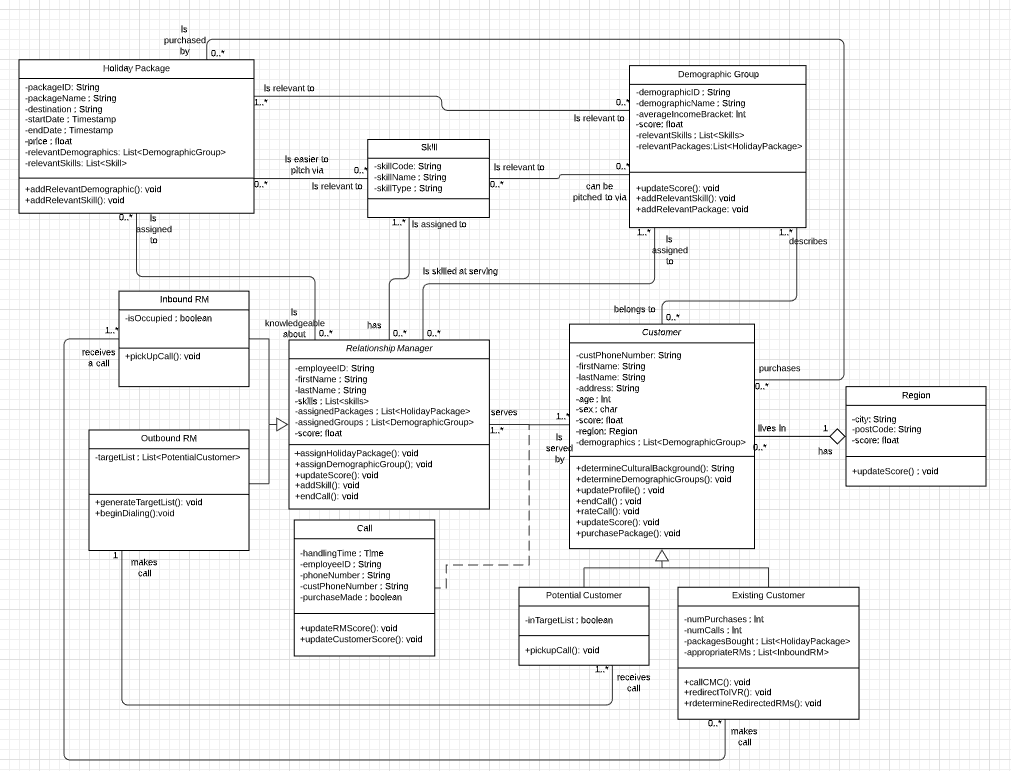
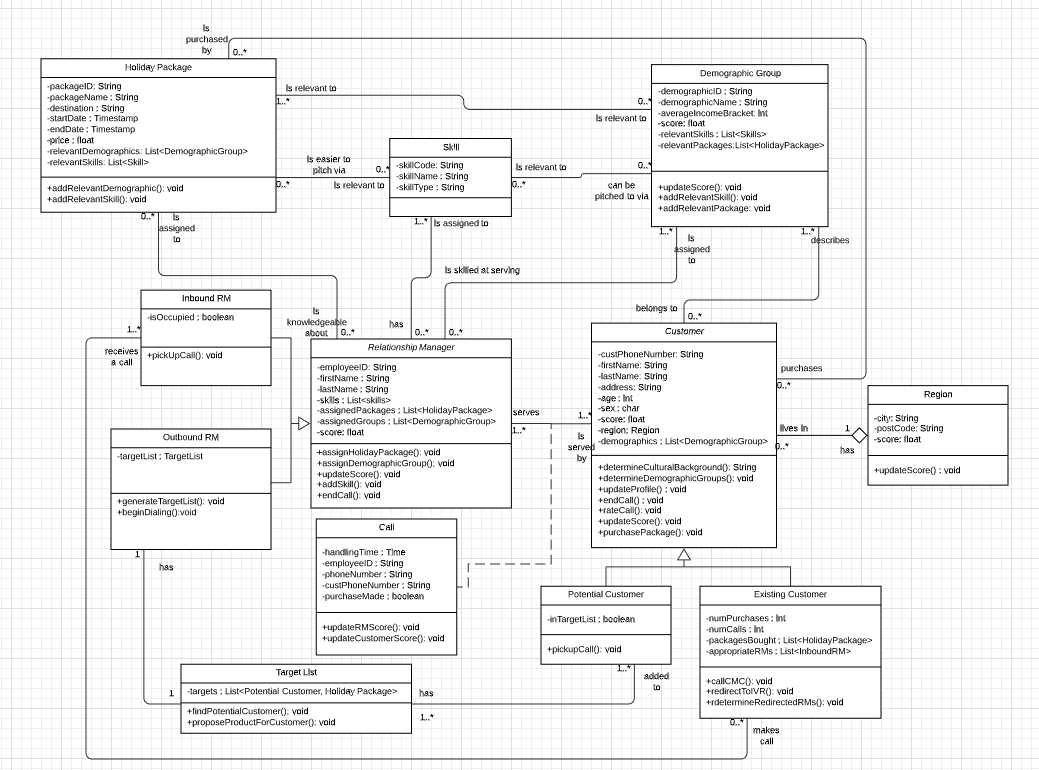
updated system class diagram to include Target List class, added an assumption into Report.md

diff --git a/Report.md b/Report.md
@@ -9,9 +9,7 @@ A major travel company is looking to improve its  information system by upgradin
 >* Improve the operation of their in-house call management center (CMC)
 >* Assist Relationship Managers (RMs) in serving their end customers (and new potential customers)
 >* Increase the efficiency of RM correspondences with customers, and increases the quality of the service provided (and the chances to achieve a sale)
->* Match RMs with customers according to RM skills and customer profiles, wherein an RMs skill profile is dynamically updated after being informed by data from each correspondence. 
-
-
+>* Match RMs with customers according to RM skills and customer profiles, wherein an RMs skill profile is dynamically updated after being informed by data from each correspondence
 ##Functional Requirements
 >* Matches customers based on RM performance and product knowledge 
 >* Customers are segmented into social and cultural groups according to postcodes and surnames. 
@@ -29,20 +27,7 @@ A major travel company is looking to improve its  information system by upgradin
 >* When the line is fairly busy, inbound customers will be redirected to an interactive voice response unit prompting them for options
 >* The Interactive voice REsponse Unit will ask for call reasons in a few words, and then redirect the call to the automatic call distributor which will route the call to the first available appropriate RM. 
 
-                Questions + Things That were Too Vague pertaining to the requirements in the case study 
-
-                +What sort of data does the original database (where the customer's information was pulled from) have? (eg. does it mention the customer's age, sex, income bracket, etc. or do we only have access to post code and full name?)
-                +How will surnames be sorted into cultures? What if it is a surname shared across cultures? (eg. lee)
-                +How will an RM's product knowledge be calculated? Are we able to determine product knowledge from raw numbers? 
-                +Will the calculated RM's skill score be calculated based on whether they achieved a sale in the call or not? Will inbound and outbound calls be weighted differently? 
-                +Will a customer be put on two RM's target lists at the same time? 
-                +If the system prioritises customers with higher scores in regards to inbound calls, then would it be possible for a customer to be waiting forever (because of their low score, and having being matched with a 'popular' RM) if people who called after them were prioritised over them?  How would this be reconciled. -- does this mean that customers with low scores will be given to RMs with high scores (a higher chance to 'convert' the customer) or RMs with low scores (to 'waste time' with together while leaving the good RMs free) 
-                +How will a proposed product be determined for a target customer? * the specs currently only mentions matching customers and RMs, but not customers and packages.
-                +How will the data from the 'call reason' be processed? will there need to be manual data entry to recategorise the customer's profile? 
-                +How busy will the line have to be before the customer is directed to the interactive voice response unit?  
-
-
-##Stakeholders
+## Stakeholders
                 Identify stakeholders
 >* Travel Company Representative (product owner)
 >* Relationship Manager (end user)
@@ -51,13 +36,11 @@ A major travel company is looking to improve its  information system by upgradin
 
 
 ----
-#Project Approach
+# Project Approach
 
-##Design and Planning Approach
+## Design and Planning Approach
 
-Describe your approach from a design thinking principles perspective
-                Explain the agile methodology, namely, Scrum, you have used to carry out the procedure. In your explanation, ensure that you outline activities from Scrum that you use 
-### Iteration one reflection 
+### Design Thinking Reflection 
 
     
 We assumed that the current CMC is inefficient as it matches customers with relationship managers based on availability rather than skills and expertise. 
@@ -79,26 +62,27 @@ This example identifies that in the existing system, relationship managers spoke
 
 
 
-##Assumptions
+## Assumptions
             
 These are assumptions about the previous system which justify the need for a new improved system 
 
 ###Inbound Calls
->* All inbound calls were met with a human operator  who asks questions about their parameters ( address, age, sex, etc) and which package they’re interested in before being redirected to an RM operator who will pitch the sale. 
->* During busy times customers were put on hold and were not directed to an interactive voice response unit. 
->* Previous inbound calls were not directed to specific RMs and were given to soonest available RM.
+* All inbound calls were met with a human operator  who asks questions about their parameters ( address, age, sex, etc) and which package they’re interested in before being redirected to an RM operator who will pitch the sale. 
+* During busy times customers were put on hold and were not directed to an interactive voice response unit. 
+* Previous inbound calls were not directed to specific RMs and were given to soonest available RM.
 
 ###Outbound Calls
->* Customer profiles were not taken into account when fielding calls to RMs - customers were not segmented by profile. 
->* Previously generated target lists do not take into account customer parameters before being given to an RM.
+* Customer profiles were not taken into account when fielding calls to RMs - customers were not segmented by profile. 
+* Previously generated target lists do not take into account customer parameters before being given to an RM.
 
 ###General (applies to both current and previous system ) 
->* Old system only provided the original hiring questionnaire and did not adjust based on skills. 
->* Skill profiles did not exist , so relationship managers could not be matched with their end customers based on knowledge. 
->* Customers were not given points based on likelihood to purchase. 
->* RMs were not given a score based on performance.
->* In the new system : customers who have already been assigned an RM will be given to same RM again each time they call (in the old system they’re just given to any random RM that is available). 
->* Call routing branch operators do not exclusively handle RM rerouting. They also handle routing customers to other parts of the company.  
+* Old system only provided the original hiring questionnaire and did not adjust based on skills. 
+* Skill profiles did not exist , so relationship managers could not be matched with their end customers based on 
+knowledge. 
+* Customers were not given points based on likelihood to purchase. 
+* RMs were not given a score based on performance.
+* In the new system : customers who have already been assigned an RM will be given to same RM again each time they call (in the old system they’re just given to any random RM that is available). 
+* RMs 
 
 --
 #System Proposal
